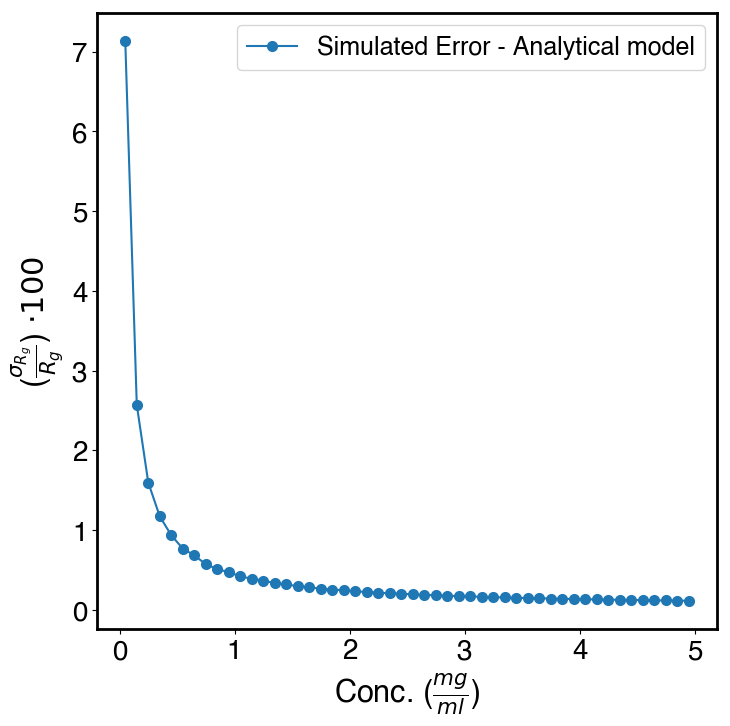
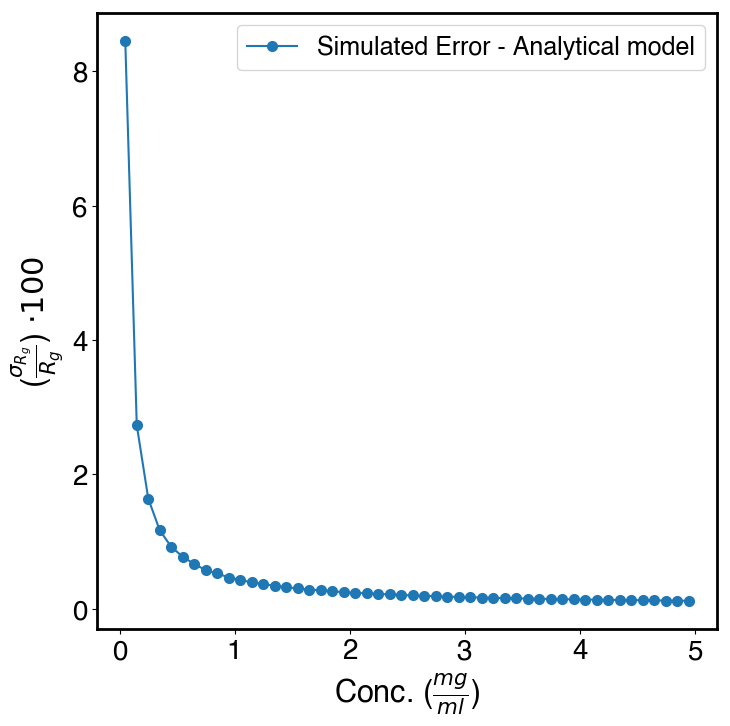
I fixed the new I_of_q_contrast() function. Previously it was incorrectly looping over variables in the calculation of I(q). I also removed Test.png as it is no longer necessary.

diff --git a/SAXS8.py b/SAXS8.py
@@ -597,7 +597,7 @@ class SAXS:
         # RM! Generate series of I0abs values for every contrast value.
 
         I0abs = []
-        for i in range(0, len(self.p) - 1):
+        for i in range(0, len(self.p)):
             I0abs.append((self.v * self.p[i]) ** 2 * self.mw * c / (6.022e23))
 
         # I0abs = (self.v * self.p) ** 2 * self.mw * c / (6.022e23)
@@ -607,7 +607,7 @@ class SAXS:
         I0 = []
         preFac = exp(-self.mu_win * self.d_win) * self.det_eff * exp(-self.mu * self.d) * self.P / (
                 self.a ** 2) * self.d
-        for i in range(0, len(I0abs) - 1):
+        for i in range(0, len(I0abs)):
             I0.append(preFac * I0abs[i])
 
         # print "I(0) = ", I0*self.t*(self.pixel_size)**2, "(photons/pixel)"
@@ -618,7 +618,7 @@ class SAXS:
         # print "water  transmission: ",exp(-self.mu*self.d)
 
         I = []
-        for i in range(0, len(I0) - 1):
+        for i in range(0, len(I0)):
             I.append(I0[i] * self.FF(q))
 
         # I = I0 * self.FF(q)

diff --git a/SAXSProf_err.py b/SAXSProf_err.py
@@ -179,10 +179,14 @@ for i in range(len(density)):
 for i in range(len(ps)):
     rho.append((saxs1.pp - ps[i]) * (2.818 * 10 ** -13))
 
-print(rho)
 
 I = saxs1.I_of_q_variable_contrast(saxs1.c, saxs1.mw, saxs1.buf_model_q, rho)
-print ('testing function:', I[0])
+# print ('testing function:', len(I), len(rho))
+err_data.plot_S2(saxs1.buf_model_q, I[0], I[6], plotlabel1= '0 MPa',
+                 plotlabel2='350 MPa',
+                 savelabel='Scattering_Curve_AtMultiplePressures',
+                 xlabel='q', ylabel='I(q)')
+
 ######################################################
 
 ## RM! 04.15.2020 Edits to call PlotSAXS class
